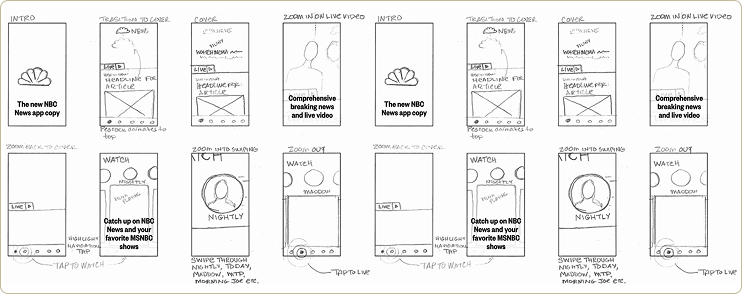
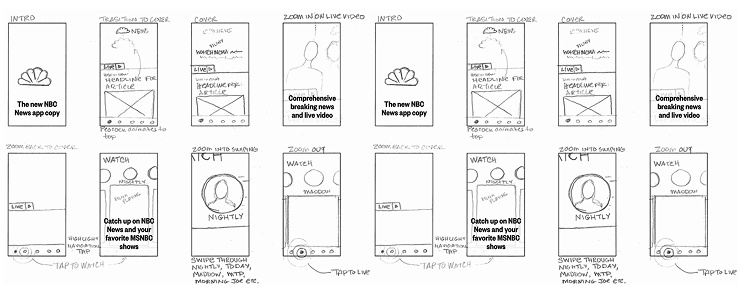
updates to nbc page, resize images

Changed region(s): [[0.0, 0.0, 1.0, 1.0]]

diff --git a/src/styles/globals.css b/src/styles/globals.css
@@ -46,8 +46,8 @@
   --color-warning: #FFC107;
   --color-info: #17A2B8;
 
-  /* Base */
-  --color-white: #FFFFFF;
+  /* Base — no pure white; use off-white for light surfaces */
+  --color-off-white: #FCFAF4;
 
   /* Semantic aliases (backward compatible with existing markup) */
   --color-coral: var(--color-primary);
@@ -56,7 +56,6 @@
   --color-slate-hover: var(--color-blue-700);
   --color-cream: #F7EFD5;
   --color-cream-light: #EDE4C7;
-  --color-off-white: #FCFAF4;
   --color-tan-dark: #3B3524;
   --color-light-bg: var(--color-gray-100);
   --color-charcoal: var(--color-gray-900);
@@ -99,7 +98,7 @@ html {
 body {
   font-family: var(--font-sans);
   color: var(--color-charcoal);
-  background-color: var(--color-white);
+  background-color: var(--color-off-white);
   -webkit-font-smoothing: antialiased;
   -moz-osx-font-smoothing: grayscale;
 }